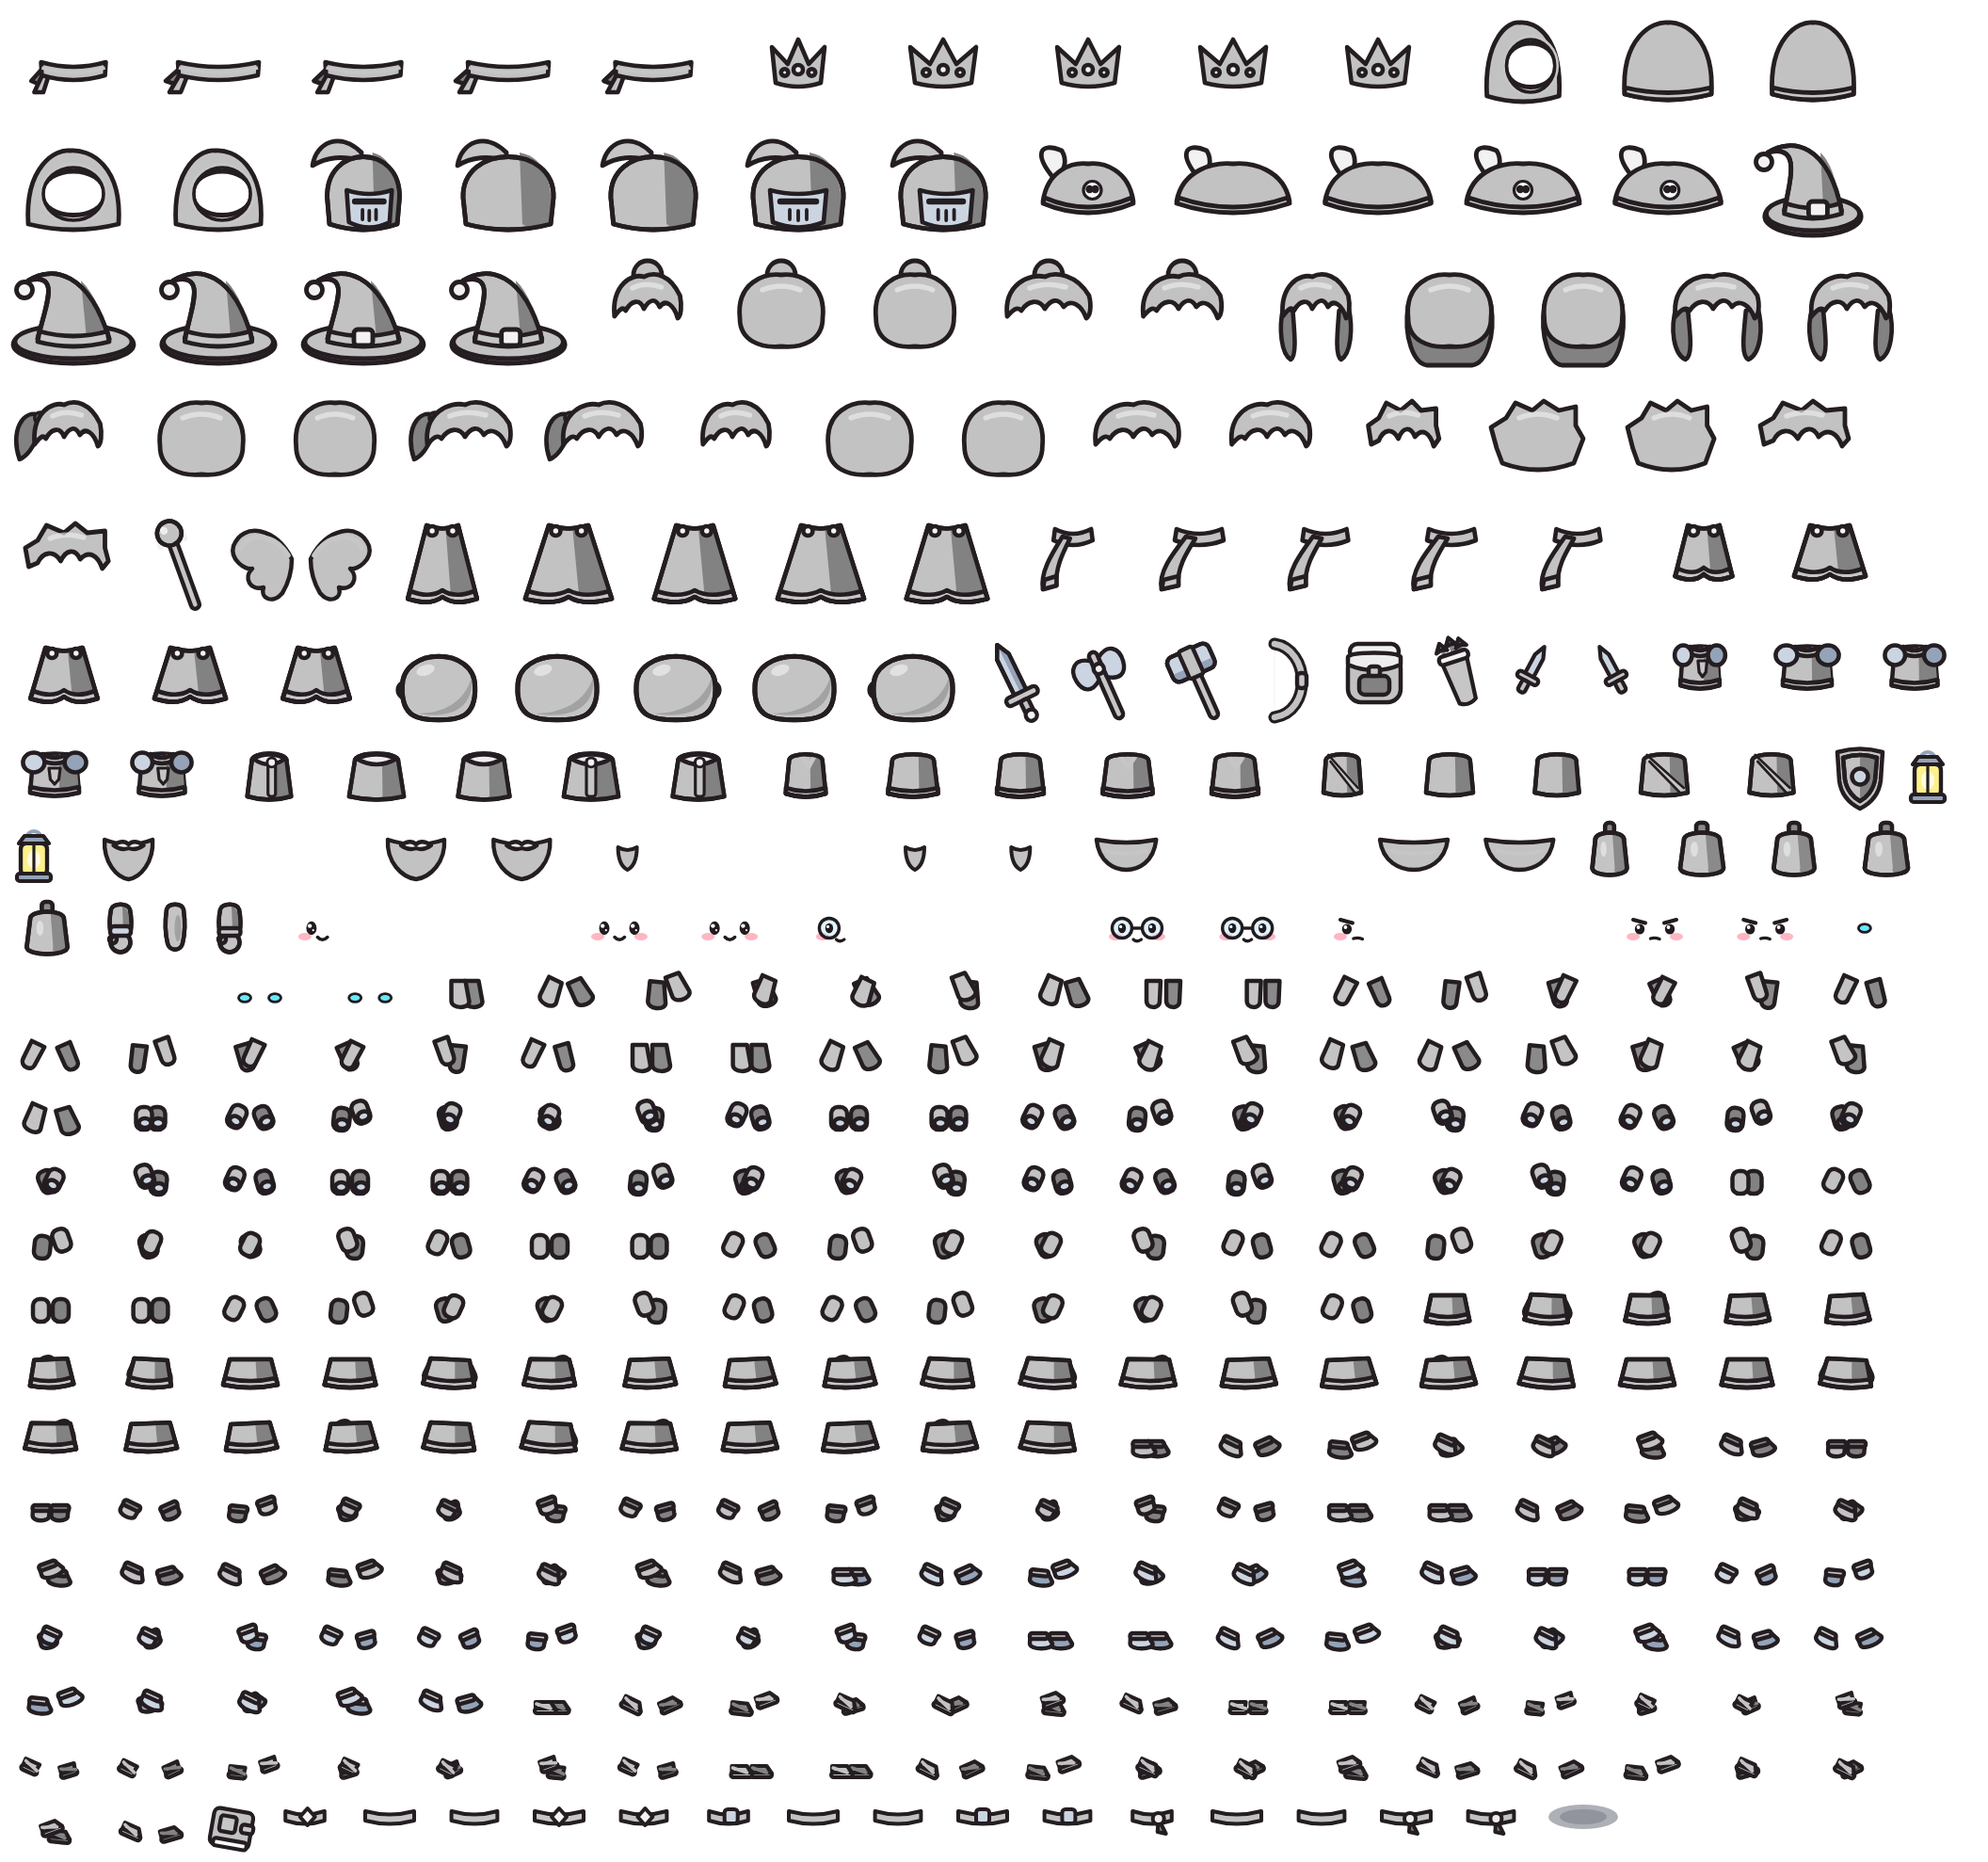
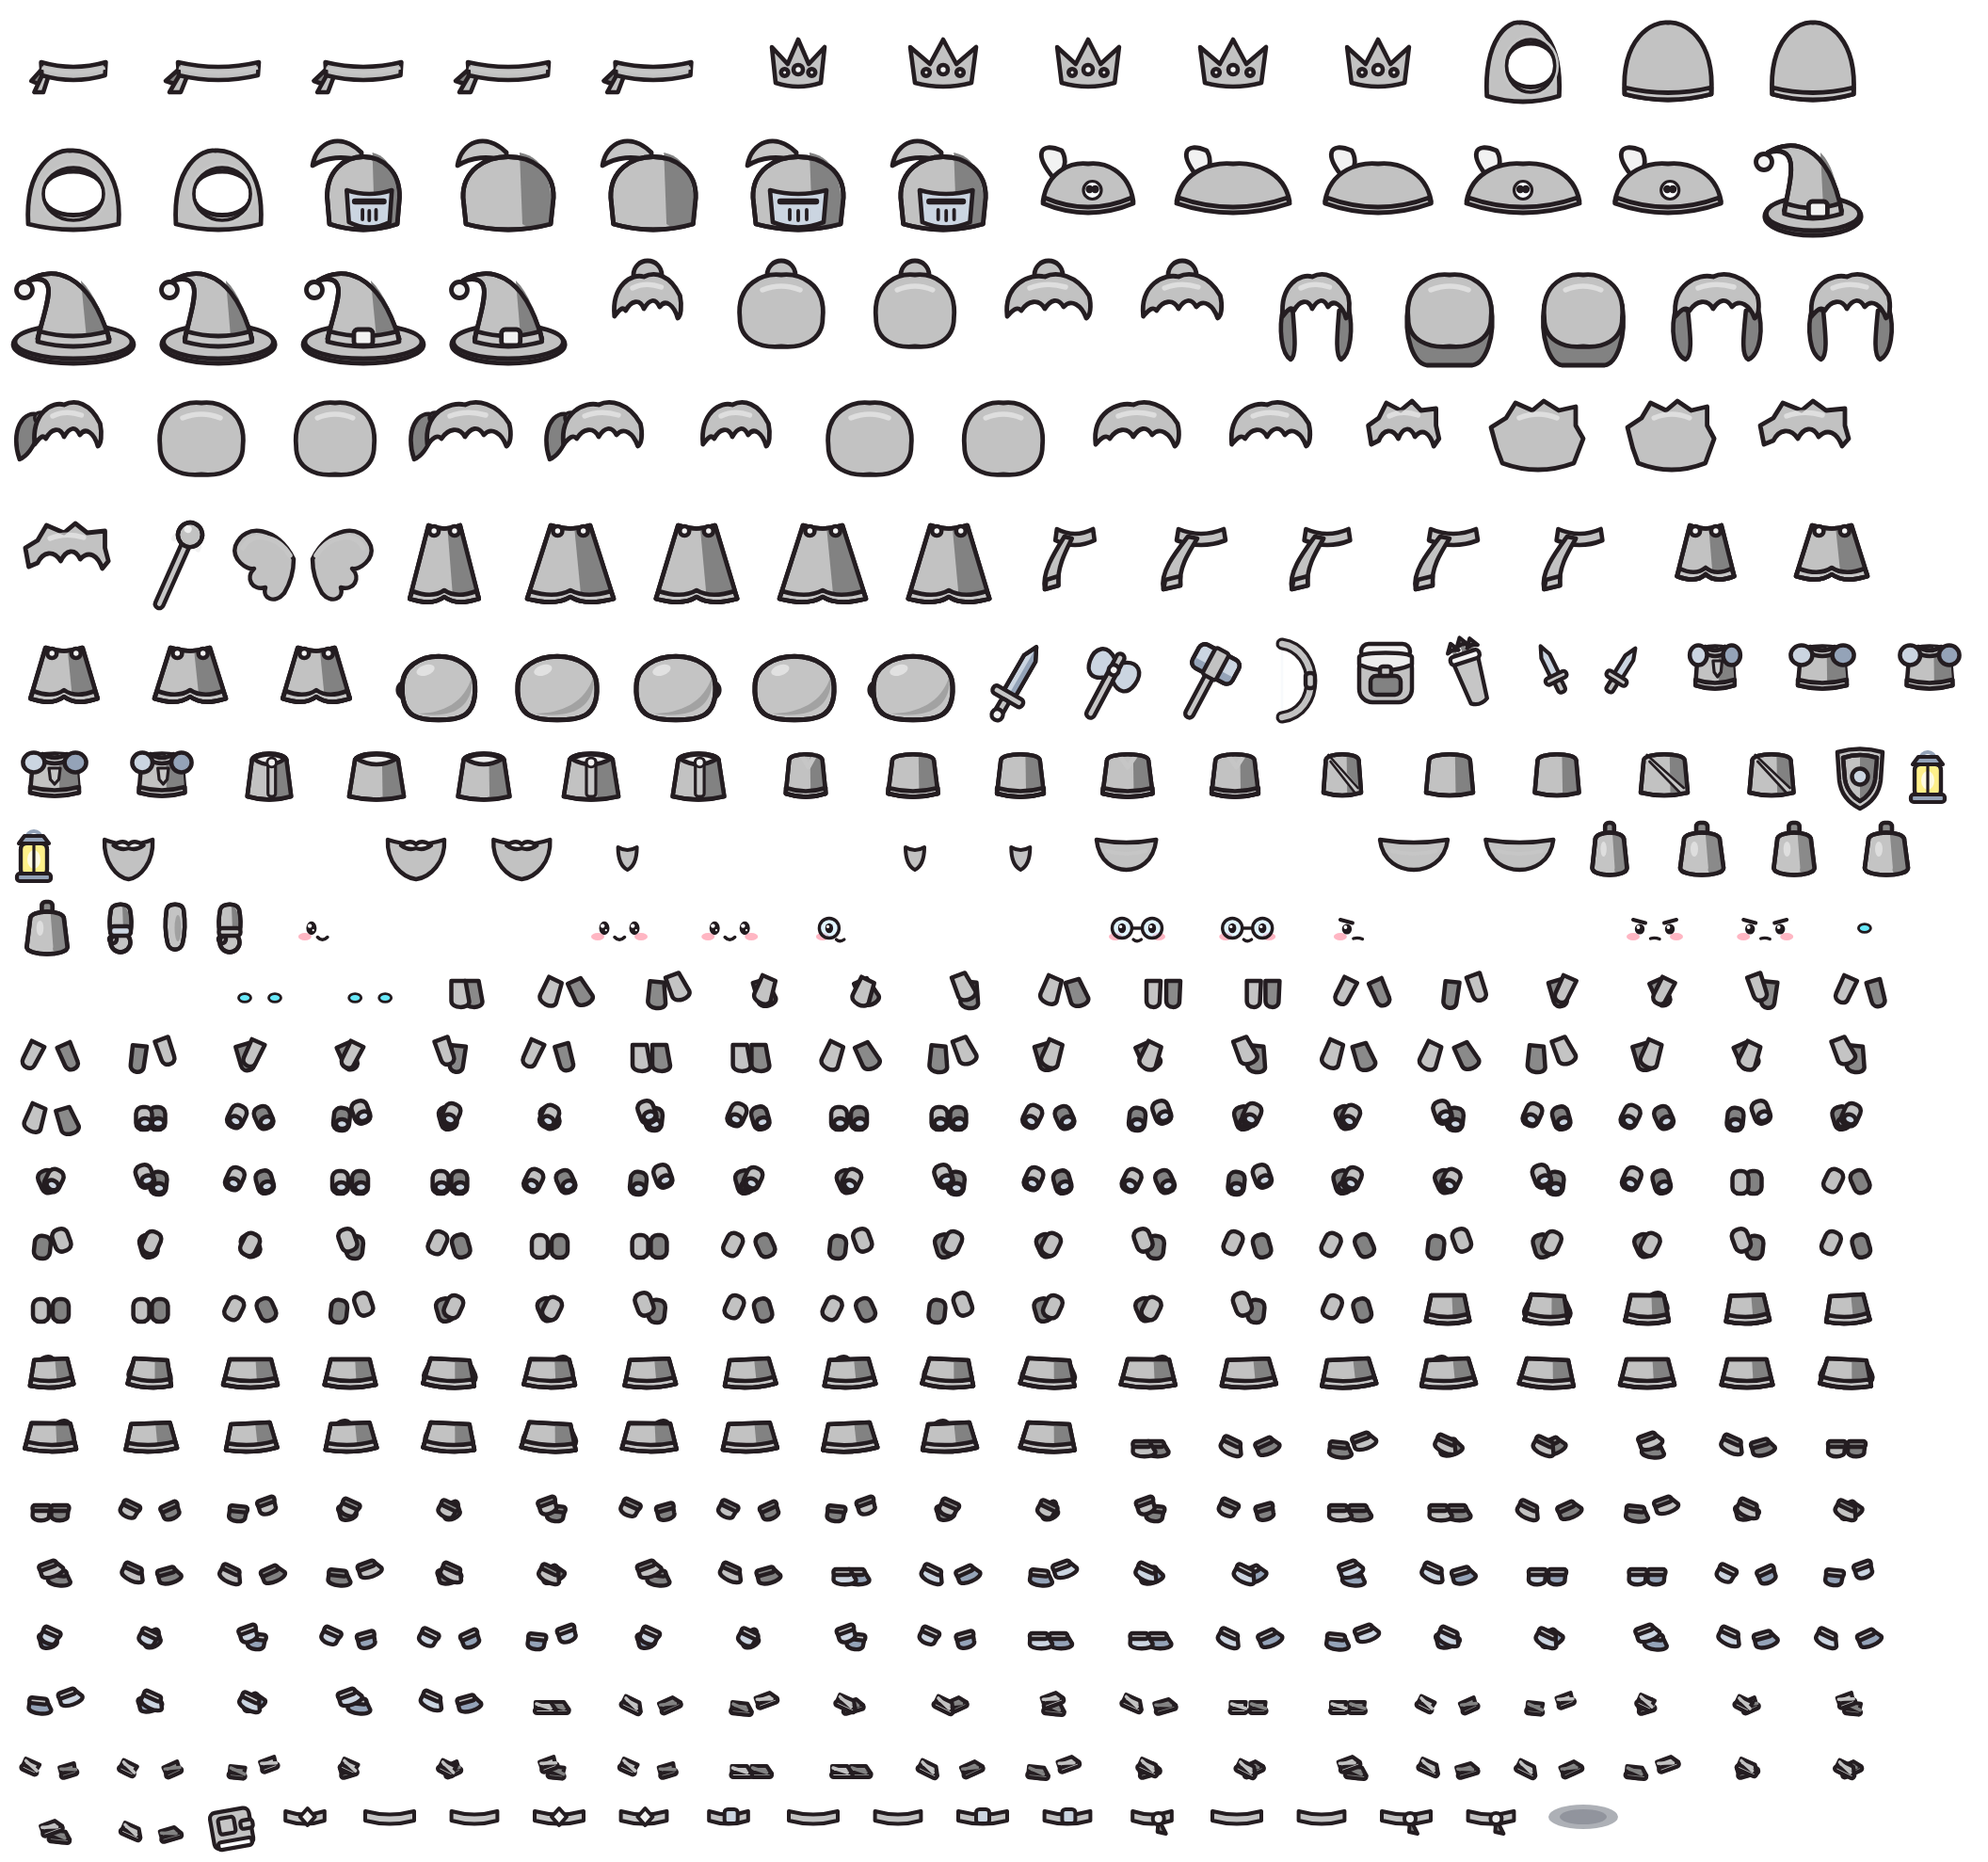
fix(studio): orient main-hand weapons forward-right on forward shoulder

diff --git a/packages/studio/src/utils/sticker-pack-loader.ts b/packages/studio/src/utils/sticker-pack-loader.ts
@@ -248,10 +248,10 @@ export async function loadStickerHDPack(basePath = './assets/sticker-hero'): Pro
       belt_waist:  { defaultOffset: { x: 0, y: 15 },  defaultPivot: { x: 0.5, y: 0.50 } },
       back_cape:   { defaultOffset: { x: -2, y: -42 }, defaultPivot: { x: 0.5, y: 0.18 } },
       back_prop:   { defaultOffset: { x: 0, y: -34 }, defaultPivot: { x: 0.5, y: 0.50 } },
-      front_arm:   { defaultOffset: { x: -23, y: -36 }, defaultPivot: { x: 0.5, y: 0.20 } },
-      main_hand:   { defaultOffset: { x: 0, y: 34 },  defaultPivot: { x: 0.34, y: 0.72 } },
-      back_arm:    { defaultOffset: { x: 23, y: -36 }, defaultPivot: { x: 0.5, y: 0.20 } },
-      off_hand:    { defaultOffset: { x: 6, y: 30 },  defaultPivot: { x: 0.5, y: 0.50 } },
+      front_arm:   { defaultOffset: { x: 23, y: -36 }, defaultPivot: { x: 0.5, y: 0.20 } },
+      main_hand:   { defaultOffset: { x: 4, y: 34 },  defaultPivot: { x: 0.35, y: 0.71 } },
+      back_arm:    { defaultOffset: { x: -23, y: -36 }, defaultPivot: { x: 0.5, y: 0.20 } },
+      off_hand:    { defaultOffset: { x: -8, y: 30 }, defaultPivot: { x: 0.5, y: 0.50 } },
       head_base:   { defaultOffset: { x: 0, y: -50 }, defaultPivot: { x: 0.5, y: 0.80 } },
       face_eyes:   { defaultOffset: { x: 0, y: -26 }, defaultPivot: { x: 0.5, y: 0.50 } },
       face_beard:  { defaultOffset: { x: 0, y: -14 }, defaultPivot: { x: 0.5, y: 0.45 } },
@@ -299,8 +299,8 @@ export async function loadStickerHDPack(basePath = './assets/sticker-hero'): Pro
     const sx = d === 'E' ? 0.80 : d === 'SE' || d === 'NE' ? 0.94 : 1.0;
     const sockets: SpriteFrameRef['sockets'] = {
       neck: { x: 0, y: -48 },
-      shoulder_front: { x: -23 * sx, y: -36 },
-      shoulder_back: { x: 23 * sx, y: -36 },
+      shoulder_front: { x: 23 * sx, y: -36 },
+      shoulder_back: { x: -23 * sx, y: -36 },
       back_mount: { x: -2 * sx, y: -42 },
     };
     return {
@@ -379,8 +379,8 @@ export async function loadStickerHDPack(basePath = './assets/sticker-hero'): Pro
     const socketName = slotId === 'front_arm' ? 'hand_main' : 'hand_off';
     const handSocket: SpriteFrameRef['sockets'] = {
       [socketName]: slotId === 'front_arm'
-        ? { x: -5, y: 34, rotationDeg: -4 }
-        : { x: 10, y: 31, rotationDeg: 4 },
+        ? { x: 5, y: 34, rotationDeg: 4 }
+        : { x: -9, y: 31, rotationDeg: -4 },
     };
     addSharedPart(slotId, 'bare', '素体短袖', makeFrame('arm_bare', { x: 0.5, y: 0.20 }, true, handSocket));
     addSharedPart(slotId, 'long_sleeve', '长袖上衣', makeFrame('arm_long_sleeve', { x: 0.5, y: 0.20 }, true, handSocket));
@@ -453,20 +453,20 @@ export async function loadStickerHDPack(basePath = './assets/sticker-hero'): Pro
     }));
   }
 
-  // 15. Main Hand Weapons (7 styles including lantern for Scholar!)
-  addSharedPart('main_hand', 'sword', '骑士长剑', makeFrame('weapon_sword', { x: 0.64, y: 0.72 }));
-  addSharedPart('main_hand', 'staff', '秘法长杖', makeFrame('weapon_staff', { x: 0.61, y: 0.69 }));
-  addSharedPart('main_hand', 'bow', '猎手长弓', makeFrame('weapon_bow', { x: 0.58, y: 0.50 }));
-  addSharedPart('main_hand', 'axe', '战斧', makeFrame('weapon_axe', { x: 0.60, y: 0.72 }));
-  addSharedPart('main_hand', 'dagger', '短刃', makeFrame('weapon_dagger', { x: 0.63, y: 0.67 }));
-  addSharedPart('main_hand', 'hammer', '锻造铁锤', makeFrame('weapon_hammer', { x: 0.59, y: 0.72 }));
+  // 15. Main Hand Weapons (7 styles held on forward +X hand, pointing 斜前方!)
+  addSharedPart('main_hand', 'sword', '骑士长剑', makeFrame('weapon_sword', { x: 0.35, y: 0.71 }));
+  addSharedPart('main_hand', 'staff', '秘法长杖', makeFrame('weapon_staff', { x: 0.36, y: 0.69 }));
+  addSharedPart('main_hand', 'bow', '猎手长弓', makeFrame('weapon_bow', { x: 0.48, y: 0.50 }));
+  addSharedPart('main_hand', 'axe', '战斧', makeFrame('weapon_axe', { x: 0.35, y: 0.72 }));
+  addSharedPart('main_hand', 'dagger', '短刃', makeFrame('weapon_dagger', { x: 0.36, y: 0.67 }));
+  addSharedPart('main_hand', 'hammer', '锻造铁锤', makeFrame('weapon_hammer', { x: 0.35, y: 0.72 }));
   addSharedPart('main_hand', 'lantern', '提灯', makeFrame('weapon_lantern', { x: 0.50, y: 0.28 }));
 
-  // 16. Off Hand Equipment (4 styles)
+  // 16. Off Hand Equipment (4 styles held on rear -X hand)
   addSharedPart('off_hand', 'shield', '纹章圆盾', makeFrame('offhand_shield', { x: 0.50, y: 0.50 }));
   addSharedPart('off_hand', 'book', '魔法典籍', makeFrame('offhand_book', { x: 0.50, y: 0.50 }));
   addSharedPart('off_hand', 'lantern', '提灯', makeFrame('offhand_lantern', { x: 0.50, y: 0.28 }));
-  addSharedPart('off_hand', 'dagger_off', '副手短刃', makeFrame('offhand_dagger_off', { x: 0.34, y: 0.67 }));
+  addSharedPart('off_hand', 'dagger_off', '副手短刃', makeFrame('offhand_dagger_off', { x: 0.64, y: 0.67 }));
 
   const pack: AssetPackManifest = {
     schemaVersion: SCHEMA_VERSION,
